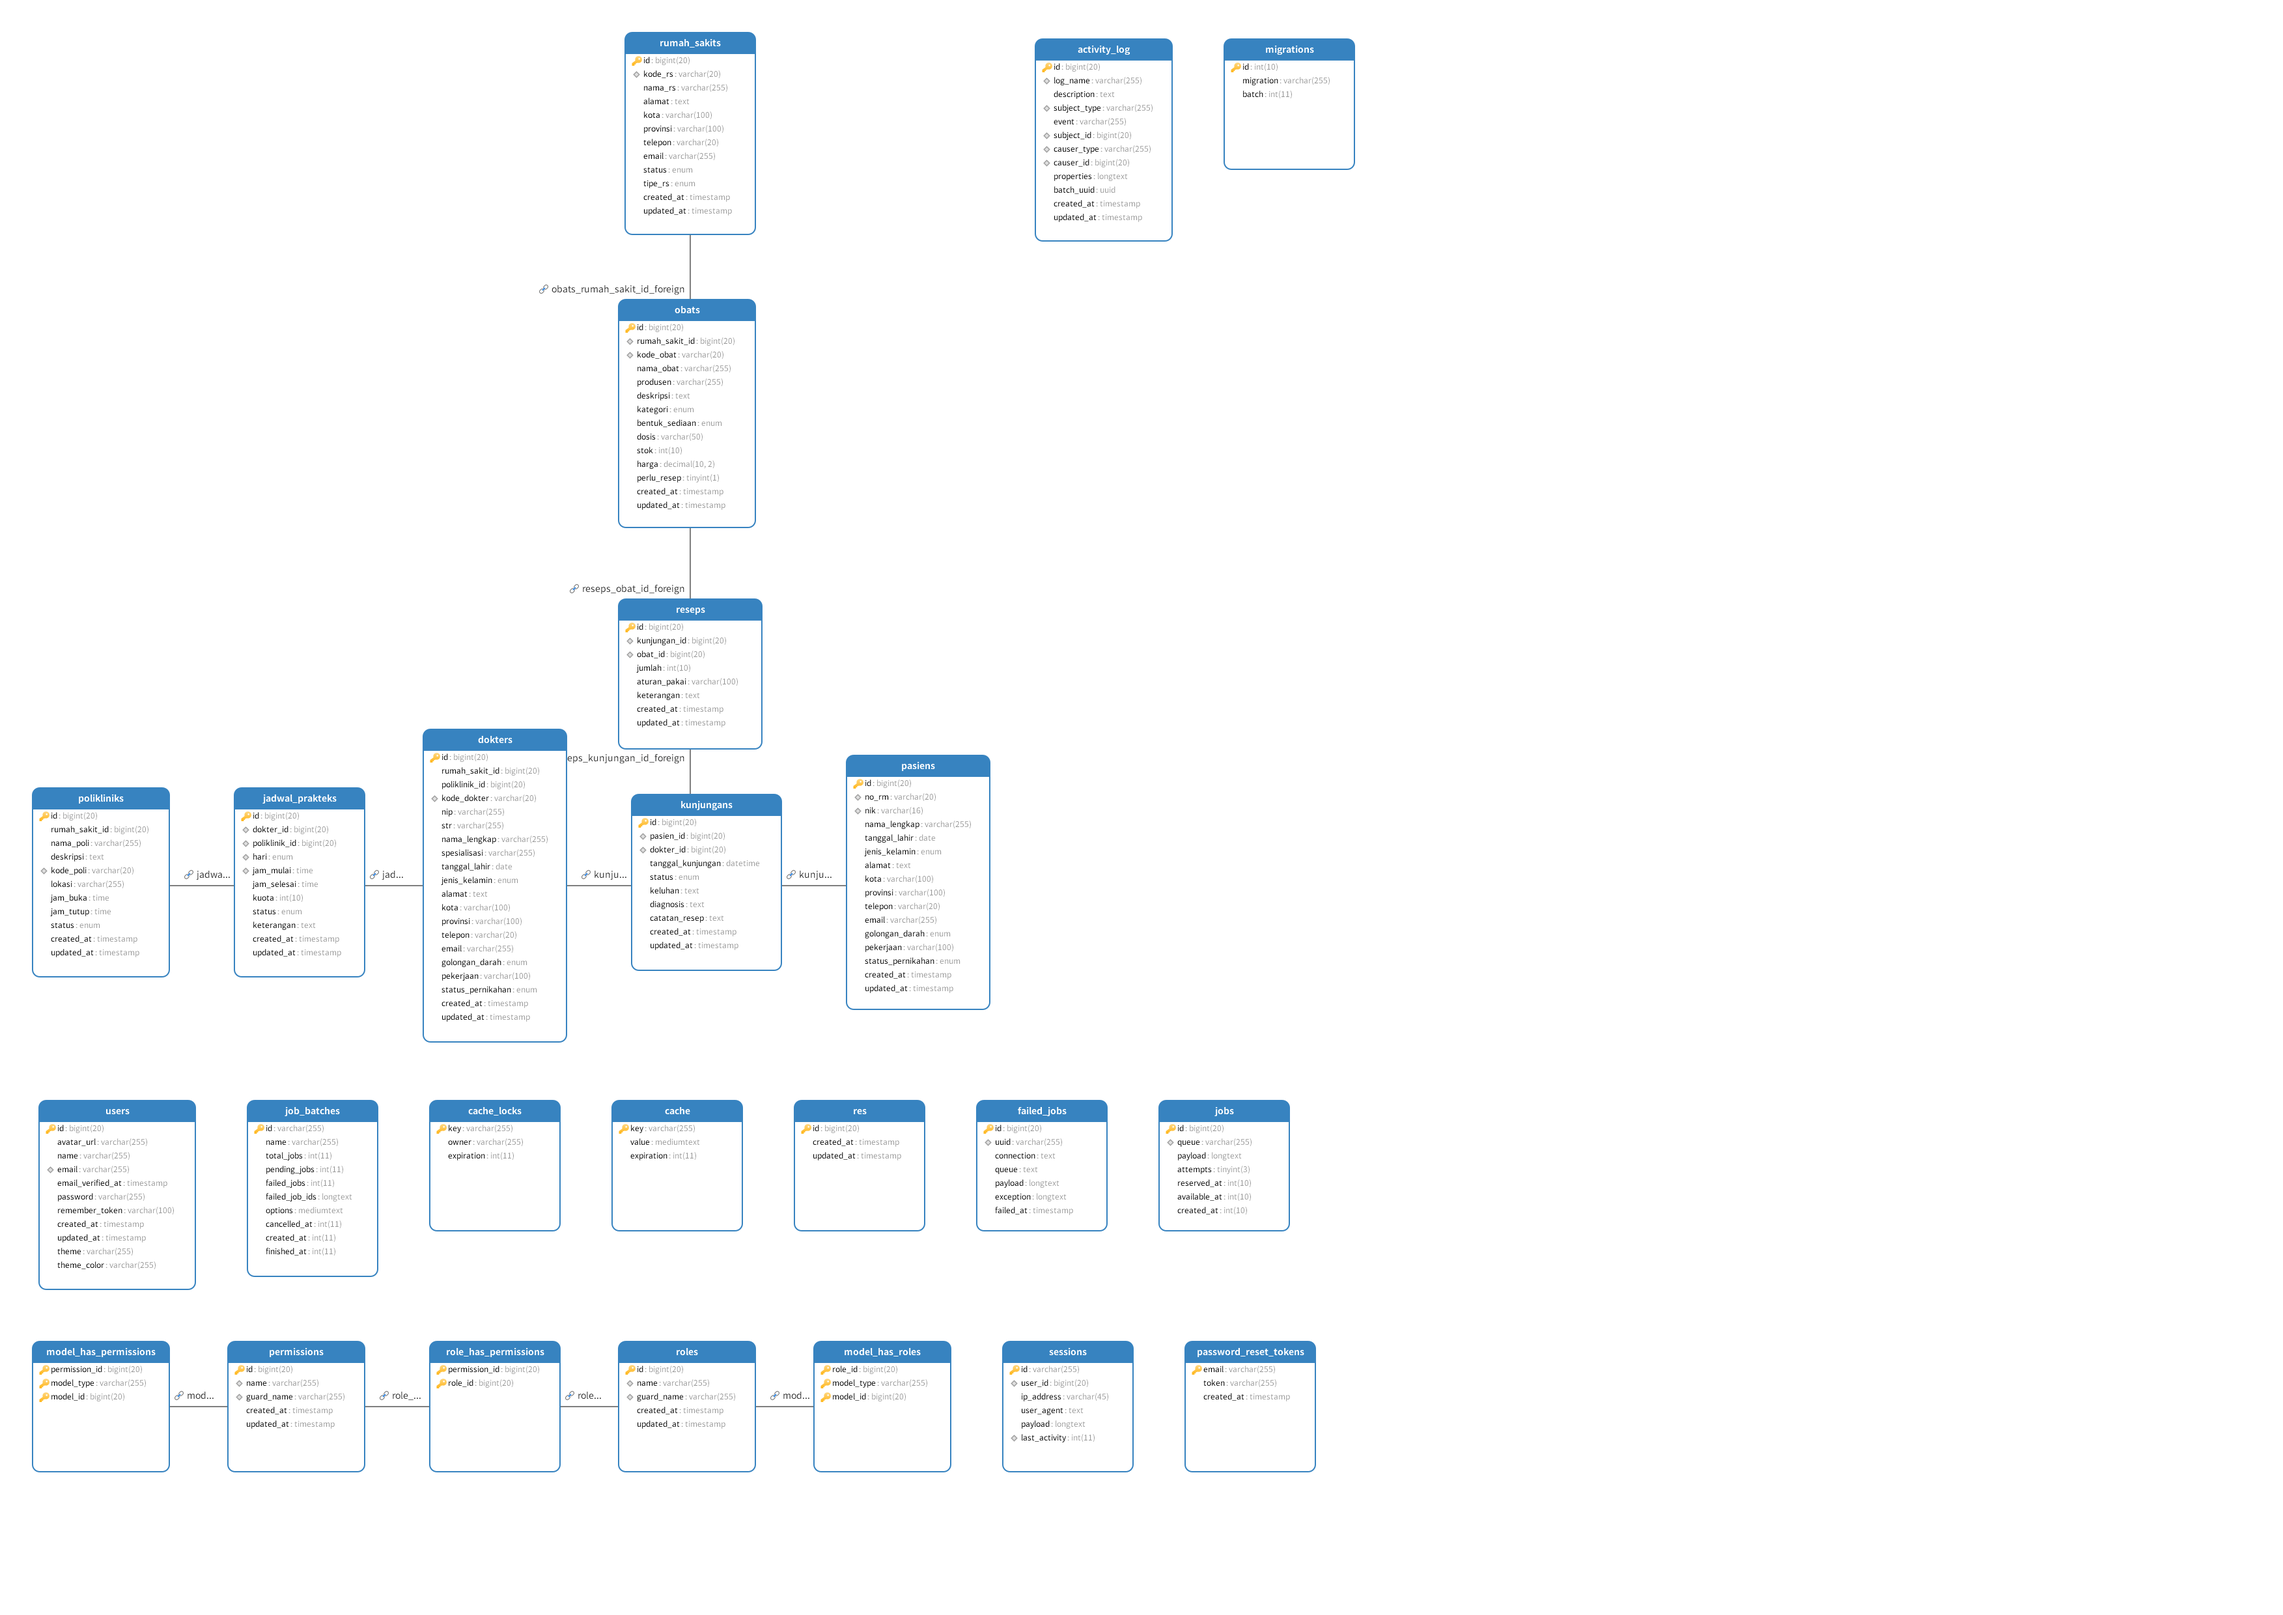
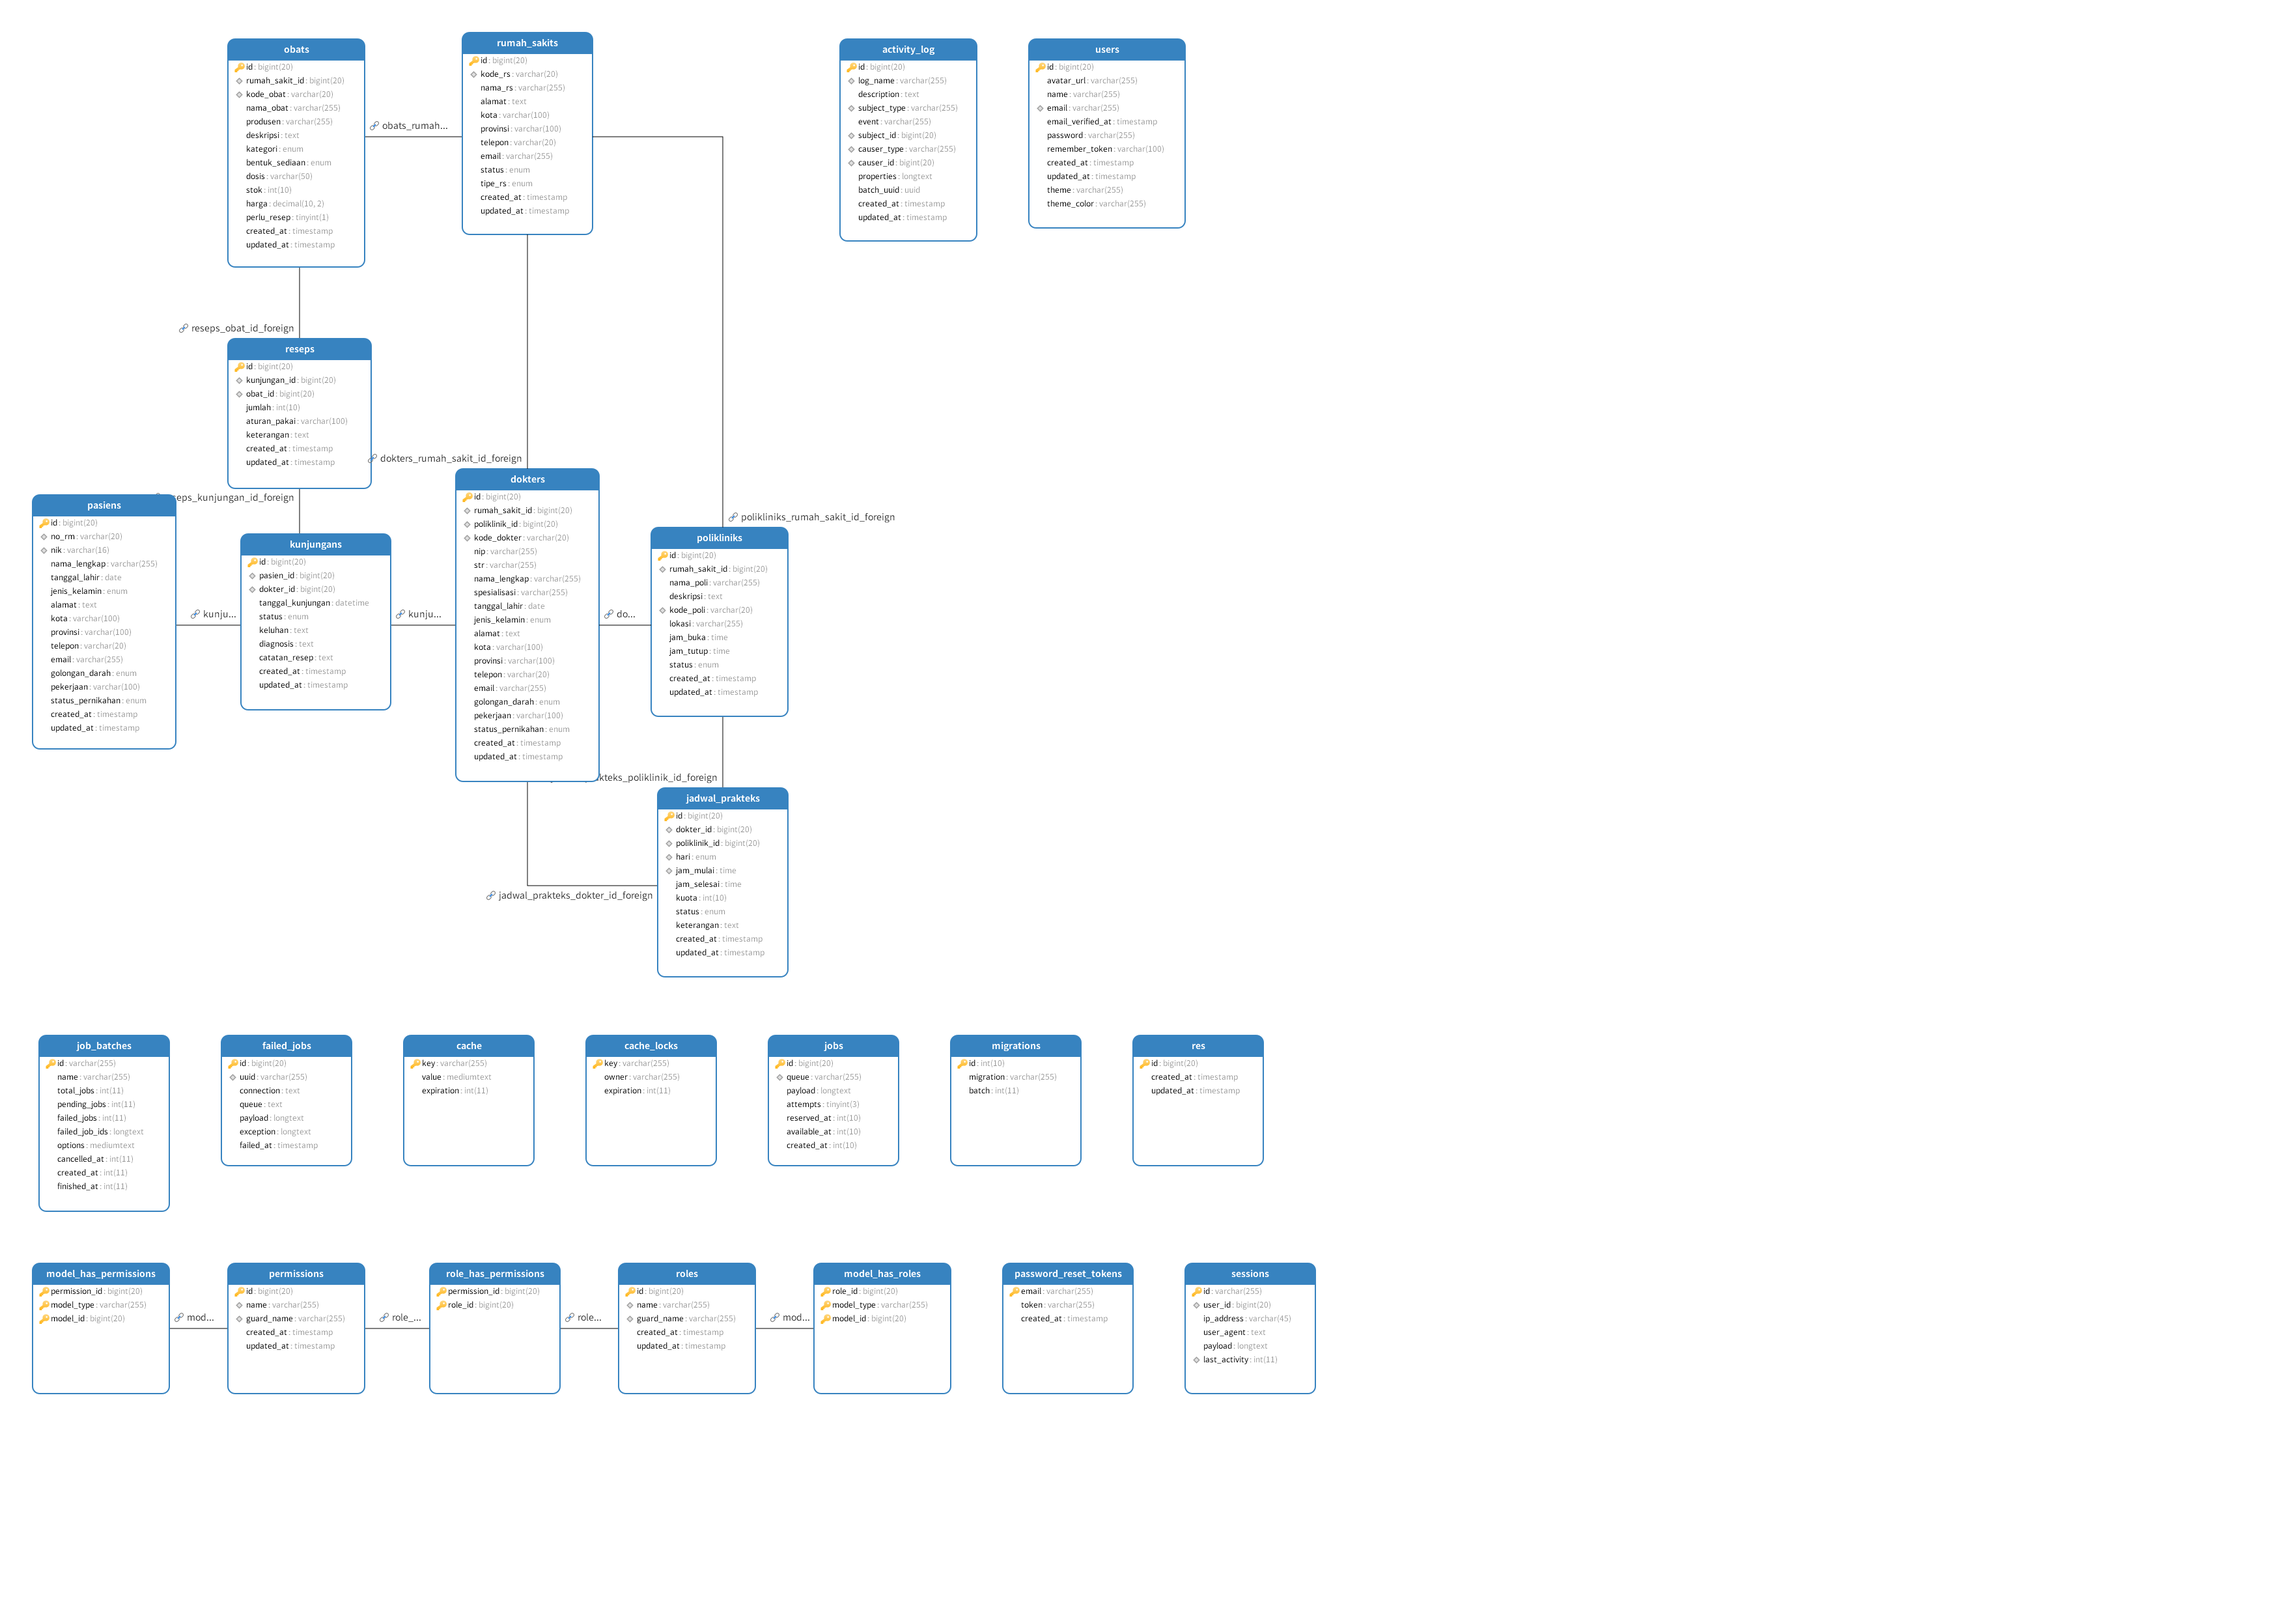
done

diff --git a/src/app/Models/Resep.php b/src/app/Models/Resep.php
@@ -2,9 +2,31 @@
 
 namespace App\Models;
 
+use App\Models\Kunjungan;
+use App\Models\Obat;
 use Illuminate\Database\Eloquent\Model;
 
 class Resep extends Model
 {
     protected $guarded = ['id'];
+
+    /**
+     * Get the kunjungan that owns the Resep
+     *
+     * @return \Illuminate\Database\Eloquent\Relations\BelongsTo
+     */
+    public function kunjungan(): BelongsTo
+    {
+        return $this->belongsTo(Kunjungan::class);
+    }
+
+    /**
+     * Get the obat that owns the Resep
+     *
+     * @return \Illuminate\Database\Eloquent\Relations\BelongsTo
+     */
+    public function obat(): BelongsTo
+    {
+        return $this->belongsTo(Obat::class);
+    }
 }

diff --git a/src/database/migrations/2025_11_15_200549_create_dokters_table.php b/src/database/migrations/2025_11_15_200549_create_dokters_table.php
@@ -16,8 +16,8 @@ return new class extends Migration
     {
         Schema::create('dokters', function (Blueprint $table) {
             $table->id();
-            $table->foreignIdFor(RumahSakit::class);
-            $table->foreignIdFor(Poliklinik::class);
+            $table->foreignIdFor(RumahSakit::class)->constrained();
+            $table->foreignIdFor(Poliklinik::class)->constrained();
             $table->string('kode_dokter', 20)->unique();
             $table->string('nip');
             $table->string('str')->comment('Surat Tanda Registrasi Dokter');

diff --git a/src/app/Models/Kunjungan.php b/src/app/Models/Kunjungan.php
@@ -2,9 +2,25 @@
 
 namespace App\Models;
 
+use App\Models\Pasien;
+use App\Models\Dokter;
 use Illuminate\Database\Eloquent\Model;
 
 class Kunjungan extends Model
 {
     protected $guarded = ['id'];
+
+    public function pasien()
+    {
+        return $this->belongsTo(Pasien::class);
+    }
+    /**
+     * Get the dokter that owns the Kunjungan
+     *
+     * @return \Illuminate\Database\Eloquent\Relations\BelongsTo
+     */
+    public function dokter()
+    {
+        return $this->belongsTo(Dokter::class);
+    }
 }

diff --git a/src/database/migrations/2025_11_15_191632_create_polikliniks_table.php b/src/database/migrations/2025_11_15_191632_create_polikliniks_table.php
@@ -15,7 +15,8 @@ return new class extends Migration
     {
         Schema::create('polikliniks', function (Blueprint $table) {
             $table->id();
-            $table->foreignIdFor(RumahSakit::class);
+            $table->foreignIdFor(RumahSakit::class)->constrained()
+                  ->onUpdate('cascade')->onDelete('cascade');
             $table->string('nama_poli');
             $table->text('deskripsi')->nullable();
             $table->string('kode_poli', 20)->unique();

diff --git a/src/app/Models/Dokter.php b/src/app/Models/Dokter.php
@@ -2,9 +2,21 @@
 
 namespace App\Models;
 
+use App\Models\RumahSakit;
+use App\Models\Poliklinik;
 use Illuminate\Database\Eloquent\Model;
 
 class Dokter extends Model
 {
     protected $guarded = ['id'];
+
+    public function rumahSakit()
+    {
+        return $this->belongsTo(RumahSakit::class);
+    }
+
+    public function poliklinik()
+    {
+        return $this->belongsTo(Poliklinik::class);
+    }
 }

diff --git a/src/app/Models/JadwalPraktek.php b/src/app/Models/JadwalPraktek.php
@@ -2,9 +2,21 @@
 
 namespace App\Models;
 
+use App\Models\Dokter;
+use App\Models\Poliklinik;
 use Illuminate\Database\Eloquent\Model;
 
 class JadwalPraktek extends Model
 {
     protected $guarded = ['id'];
+
+    public function dokter()
+    {
+        return $this->belongsTo(Dokter::class);
+    }
+
+    public function poliklinik()
+    {
+        return $this->belongsTo(Poliklinik::class);
+    }
 }

diff --git a/src/app/Models/Obat.php b/src/app/Models/Obat.php
@@ -2,9 +2,15 @@
 
 namespace App\Models;
 
+use App\Models\RumahSakit;
 use Illuminate\Database\Eloquent\Model;
 
 class Obat extends Model
 {
     protected $guarded = ['id'];
+
+    public function rumahSakit()
+    {
+        return $this->belongsTo(RumahSakit::class);
+    }
 }
